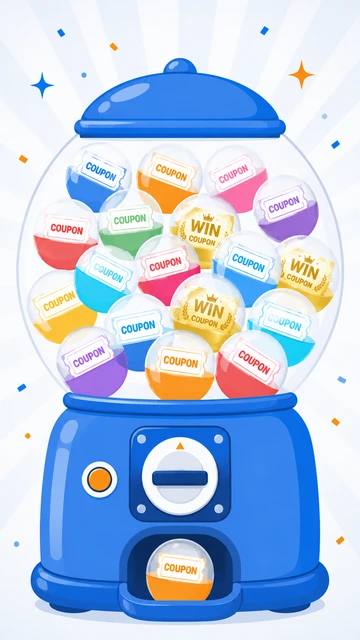
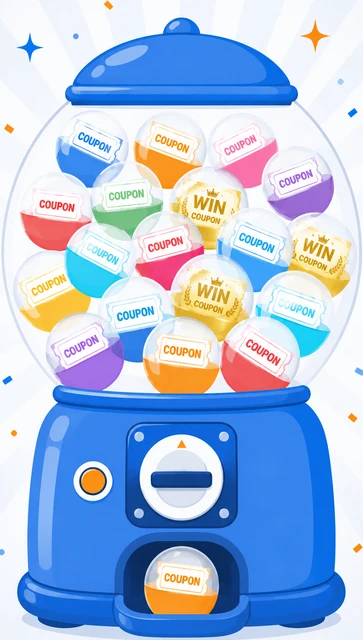
ガチャの見た目をキャンペーンらしく作り直す
白い紙の上に絵とボタンが並んでいるだけで、催しをやっている感じが出ていなかった。

- **モーダルの端まで色を伸ばした「舞台」**を作り、ガチャ本体をその上に置いた。
  舞台の色は回ごとに変わる（ふだんは青、クリスマスは赤と緑、お正月は紅白と金）
- 後光を舞台の背景に敷いた。**絵そのものにも光が入っているので薄くしてある。**
  強くすると二重になって、絵より飾りが目立つ
- **紙吹雪は当たったときだけ降らせる。** ふだんから動いていると、当たった
  手ごたえが出ない。位置と色は決め打ち（毎回変えると、開き直すたびに別の絵に
  なり、サーバーが作ったHTMLとも食い違う）
- 結果を舞台の上に大きく出す。「毎日1回・無料」の札と連続日数も舞台の上へ
- いちばん上の賞（A賞）だけ金色に。どれが目玉か一目で分かるように
- たまっている券を**回数券のかたち**（左右にへこみ）にして、7日に足りない
  ときは、あと何日かを帯で出す
- 引くボタンを大きくした
- ガチャ本体の絵の上下の余白を詰めて、機械そのものを大きく見せた
- 揺れも紙吹雪も、動きを止める設定の端末では止まる
- 使わなくなった .gacha-banner の指定を消した（入口は .gacha-wide に移った）

Claude-Session: https://claude.ai/code/session_01MWcWZbT7Kqcwm12uJEzVyT

diff --git a/app/globals.css b/app/globals.css
@@ -1953,69 +1953,145 @@ body { font-weight:600; }
 
 /* --- 毎日ガチャ ---------------------------------------------------------------
    期間中だけホームに出る入口と、引くところ。**中身は同じで包み紙だけ変える。**
-   クリスマスは赤と緑、お正月は紅白と金。 */
-.gacha-banner { width:calc(100% - 32px); margin:16px; padding:14px 15px; display:flex; align-items:center; gap:12px;
-  border:0; border-radius:16px; color:#fff; text-align:left; cursor:pointer; }
-/* ふだんの回は、アプリの色そのまま。季節の回だけ服を着替える。 */
-.gacha-banner.is-plain { background:linear-gradient(120deg,#0f5fc4,#1478d6 60%,#12a06a); }
-.gacha-banner.is-xmas { background:linear-gradient(120deg,#a51228,#d13048 52%,#0d7a44); }
-.gacha-banner.is-newyear { background:linear-gradient(120deg,#b3122b,#e03a4f 46%,#c99a2e); }
-/* 今日ぶんを引き終わったら落ち着かせる。押せることに変わりはないが、
-   まだ引いていない人と同じ強さで呼び続けない。 */
-.gacha-banner.is-done { filter:saturate(.45) brightness(.92); }
-.gacha-banner-icon { flex:0 0 auto; width:42px; height:42px; display:grid; place-items:center; border-radius:12px;
-  background:rgba(255,255,255,.18); font-size:23px; }
-.gacha-banner-copy { min-width:0; flex:1 1 auto; }
-.gacha-banner-copy b { display:block; font-size:14px; font-weight:900; line-height:1.45; }
-.gacha-banner-copy small { display:block; margin-top:3px; color:#ffe8ec; font-size:11px; font-weight:800; }
-.gacha-banner-go { flex:0 0 auto; font-size:20px; font-weight:900; opacity:.8; }
-
+   ふだんはアプリの青、クリスマスは赤と緑、お正月は紅白と金。 */
 .gacha { text-align:center; }
-/* ガチャ本体。回しているあいだ揺れる。**画像でも絵文字でも同じ動き**に
-   なるように、動かすのは中身ではなく外側の箱にしてある。 */
-/* 絵そのものに背景（光と紙吹雪）が入っているので、角を丸めて1枚の札に見せる。
-   まわりの白と地続きにすると、切り取り忘れのように見える。 */
-.gacha-machine { margin:4px auto 0; display:flex; justify-content:center; overflow:hidden;
-  border-radius:18px; transform-origin:50% 92%; }
-.gacha-machine img { height:210px; width:auto; display:block; }
+
+/* --- 舞台 -------------------------------------------------------------------
+   **モーダルの端まで色を伸ばす。** 白い紙の上に絵を置いただけだと、
+   催しをやっている感じが出ない。上は角を丸めず、下だけ丸めて紙に戻す。 */
+.gacha-stage { margin:0 -20px 4px; padding:14px 20px 18px; position:relative; overflow:hidden;
+  border-radius:0 0 22px 22px; }
+.gacha.is-plain .gacha-stage { background:linear-gradient(165deg,#0b4ea8,#1478d6 58%,#0f8f77); }
+.gacha.is-xmas .gacha-stage { background:linear-gradient(165deg,#8f0f22,#c92a41 55%,#0c7040); }
+.gacha.is-newyear .gacha-stage { background:linear-gradient(165deg,#9c0f24,#d43148 50%,#c2932c); }
+
+/* 後光。ガチャ本体の真うしろから放射させる。薄くしないと、絵より目立つ。 */
+.gacha-rays { position:absolute; left:50%; top:44%; width:150%; aspect-ratio:1; transform:translate(-50%,-50%);
+  background:repeating-conic-gradient(from 0deg, rgba(255,255,255,.08) 0deg 7deg, rgba(255,255,255,0) 7deg 14deg);
+  -webkit-mask-image:radial-gradient(closest-side, #000 20%, transparent 78%);
+  mask-image:radial-gradient(closest-side, #000 20%, transparent 78%); pointer-events:none; }
+
+/* 紙吹雪。**当たったときだけ降らせる。** ふだんから動いていると、
+   当たった手ごたえが出ない。 */
+.gacha-confetti { position:absolute; inset:0; pointer-events:none; }
+.gacha-confetti i { position:absolute; top:-14px; width:7px; height:11px; border-radius:2px; opacity:0; }
+.gacha-stage.is-win .gacha-confetti i { animation:gacha-fall 1.5s ease-in forwards; }
+@keyframes gacha-fall {
+  0% { transform:translateY(0) rotate(0deg); opacity:0; }
+  12% { opacity:1; }
+  100% { transform:translateY(330px) rotate(420deg); opacity:0; }
+}
+
+.gacha-stage-top { margin:0; position:relative; z-index:2; display:flex; flex-wrap:wrap; align-items:center;
+  justify-content:center; gap:7px; }
+.gacha-chip { padding:5px 12px; border-radius:99px; background:rgba(255,255,255,.2); color:#fff;
+  font-size:11px; font-weight:900; letter-spacing:.03em; }
+.gacha-streak { padding:5px 12px; border-radius:99px; background:#ffc53d; color:#5c3c00;
+  font-size:11px; font-weight:900; }
+
+/* ガチャ本体。回しているあいだ揺れる。絵そのものに背景が入っているので、
+   角を丸めて1枚の札に見せる。 */
+.gacha-machine { margin:10px auto 0; position:relative; z-index:2; display:flex; justify-content:center;
+  overflow:hidden; border-radius:18px; transform-origin:50% 92%;
+  box-shadow:0 14px 34px rgba(6,20,44,.28); }
+.gacha-machine img { height:212px; width:auto; display:block; }
 .gacha-machine.is-spinning { animation:gacha-shake .38s ease-in-out infinite; }
 @keyframes gacha-shake {
   0%,100% { transform:rotate(-4deg); }
   50% { transform:rotate(4deg); }
 }
-@media (prefers-reduced-motion:reduce) { .gacha-machine.is-spinning { animation:none; } }
-/* 連続日数。**ログインボーナスの本体はここ。** 続けている手ごたえを出す。 */
-.gacha-streak { margin:12px 0 0; display:inline-block; padding:6px 13px; border-radius:99px;
-  background:#fff3e6; color:#a2500b; font-size:12px; font-weight:900; }
-/* 賞の一覧。**等級・中身・もらえる日数の3列**にそろえる。 */
-.gacha-prizes { margin:15px 0 0; padding:0; list-style:none; display:grid; gap:7px; }
-.gacha-prizes li { padding:10px 12px; display:flex; align-items:center; gap:10px;
-  border:1px solid var(--line); border-radius:11px; background:#fff; color:#7b8598; font-size:11px; font-weight:800; text-align:left; }
-.gacha-prizes li i { min-width:38px; padding:4px 8px; border-radius:7px; background:#eef2f8; color:#8b97aa;
-  font-size:11px; font-style:normal; font-weight:900; text-align:center; }
-.gacha-prizes li b { flex:1 1 auto; min-width:0; overflow:hidden; font-size:13px; font-weight:900; text-overflow:ellipsis; white-space:nowrap; }
-.gacha-prizes li span { flex:0 0 auto; }
-.gacha-prizes li.is-win { border-color:#f0d6c4; background:#fffaf5; color:#a2500b; }
-.gacha-prizes li.is-win i { background:var(--accent); color:#fff; }
-.gacha.is-newyear .gacha-prizes li.is-win { border-color:#e8cf9a; background:#fdf7e8; color:#8a6d2f; }
-.gacha.is-newyear .gacha-prizes li.is-win i { background:#b8912f; }
-.gacha-lead { margin:14px 0 0; color:#64748b; font-size:12px; font-weight:700; line-height:1.75; }
-.gacha .submit-button { margin-top:15px; }
-/* 結果は「A賞　◯◯」。等級を先に、中身をそのうしろに。 */
-.gacha-result { margin:16px 0 0; display:flex; flex-wrap:wrap; align-items:center; justify-content:center; gap:9px;
-  color:#7b8598; font-size:21px; font-weight:900; }
-.gacha-result i { padding:5px 12px; border-radius:9px; background:#eef2f8; color:#8b97aa;
-  font-size:15px; font-style:normal; font-weight:900; letter-spacing:.04em; }
-.gacha-result b { font-weight:900; }
-.gacha-result.is-win { color:#b4380f; font-size:26px; }
-.gacha-result.is-win i { background:var(--accent); color:#fff; }
-.gacha.is-newyear .gacha-result.is-win { color:#a8102a; }
-.gacha.is-newyear .gacha-result.is-win i { background:#b8912f; }
-.gacha-gift { margin:15px 0 0; padding:13px; border-radius:12px; background:#fff3e6; color:#8a4a12;
+@media (prefers-reduced-motion:reduce) {
+  .gacha-machine.is-spinning { animation:none; }
+  .gacha-stage.is-win .gacha-confetti i { animation:none; }
+}
+
+.gacha-stage-note { margin:12px 0 0; position:relative; z-index:2; color:rgba(255,255,255,.86);
   font-size:12px; font-weight:800; }
-.gacha-gift b { display:block; margin-top:4px; font-size:22px; font-weight:900; }
-.gacha-gift small { display:block; margin-top:3px; font-size:11px; font-weight:800; opacity:.8; }
+
+/* 結果は「A賞　◯◯」。舞台の上に白抜きで出す。 */
+.gacha-result { margin:13px 0 0; position:relative; z-index:2; display:flex; flex-wrap:wrap; align-items:center;
+  justify-content:center; gap:9px; color:rgba(255,255,255,.85); font-size:19px; font-weight:900; }
+.gacha-result i { padding:5px 12px; border-radius:9px; background:rgba(255,255,255,.22); color:#fff;
+  font-size:14px; font-style:normal; font-weight:900; letter-spacing:.04em; }
+.gacha-result b { font-weight:900; }
+.gacha-result.is-win { color:#fff; font-size:25px; text-shadow:0 2px 12px rgba(6,20,44,.35); }
+.gacha-result.is-win i { background:#ffc53d; color:#5c3c00; }
+
+/* 賞の一覧。**等級・中身・もらえる日数の3つ**にそろえる。 */
+.gacha-prizes { margin:16px 0 0; padding:0; list-style:none; display:grid; gap:8px; }
+.gacha-prizes li { padding:11px 12px; display:flex; align-items:center; gap:10px;
+  border:1px solid var(--line); border-radius:12px; background:#fff; color:#7b8598;
+  font-size:11px; font-weight:800; text-align:left; }
+.gacha-prizes li i { min-width:40px; padding:5px 8px; border-radius:8px; background:#eef2f8; color:#8b97aa;
+  font-size:11px; font-style:normal; font-weight:900; text-align:center; }
+.gacha-prizes li b { flex:1 1 auto; min-width:0; overflow:hidden; font-size:13px; font-weight:900;
+  text-overflow:ellipsis; white-space:nowrap; }
+.gacha-prizes li span { flex:0 0 auto; }
+.gacha-prizes li.is-win { border-color:#f6d9bd; background:#fff8f1; color:#a2500b; }
+.gacha-prizes li.is-win i { background:var(--accent); color:#fff; }
+/* いちばん上の賞だけ金色にする。**どれが目玉かが一目で分かる。** */
+.gacha-prizes li.is-top { border-color:#e8c877; background:linear-gradient(120deg,#fff8e3,#fffdf6); color:#7a5a12; }
+.gacha-prizes li.is-top i { background:linear-gradient(135deg,#e0a51c,#f5cd53); color:#4d3400;
+  box-shadow:0 2px 8px rgba(190,140,20,.35); }
+.gacha-prizes li.is-top b { font-size:14px; }
+
+.gacha-lead { margin:14px 0 0; color:#64748b; font-size:12px; font-weight:700; line-height:1.75; }
+.gacha-lead b { color:var(--accent-ink); }
+
+/* 引くボタン。押したくなる大きさにする。 */
+.gacha-draw { min-height:56px; margin-top:16px; border-radius:14px; font-size:16px; font-weight:900;
+  box-shadow:0 10px 24px rgba(15,95,196,.28); }
+
+/* たまっている券。**回数券のかたち**にする。数字だけ書くより、持ちものとして
+   見えたほうが、ためる気になる。左右のへこみが切り取り線に見える。 */
+.gacha-gift { margin:16px 0 0; padding:14px 18px; position:relative; border:1px dashed #e8c877;
+  border-radius:14px; background:linear-gradient(120deg,#fffaf0,#fff7e8); color:#7a5a12; }
+.gacha-gift::before, .gacha-gift::after { position:absolute; top:50%; width:14px; height:14px;
+  transform:translateY(-50%); border-radius:50%; background:#fff; content:''; }
+.gacha-gift::before { left:-8px; }
+.gacha-gift::after { right:-8px; }
+.gacha-gift small { display:block; font-size:11px; font-weight:800; opacity:.85; }
+.gacha-gift b { display:block; margin:2px 0; font-size:30px; font-weight:900; letter-spacing:-.02em; }
+.gacha-gift b em { margin-left:3px; font-size:15px; font-style:normal; }
+
+/* あと何日でつかえるか。数字だけより、伸びていくほうが分かりやすい。 */
+.gacha-gauge { height:8px; margin:11px 0 0; overflow:hidden; border-radius:99px; background:#eef2f8; }
+.gacha-gauge span { height:100%; display:block; border-radius:99px;
+  background:linear-gradient(90deg,#f0a11f,#f0731f); }
+
 .gacha-note { margin:13px 0 0; color:#93a0b3; font-size:11px; font-weight:700; line-height:1.7; }
+.gacha-note b { color:#66758c; }
+
+/* 運営だけに出る「もう一度回す」。ふつうのボタンほど強くしない。 */
+.gacha-again { min-height:44px; margin-top:14px; padding:0 20px; border:1px solid #cfdcee; border-radius:11px;
+  background:#fff; color:#0f5fc4; font-size:13px; font-weight:900; cursor:pointer; }
+
+/* --- ガチャの入口（ジャンル別の下）---------------------------------------------
+   **横長のバナー（1200×400／3:1）を置ける枠。** 画像が無い・読めないときは
+   色と文字だけの帯になる。どちらでも成り立つ形にしてあるので、画像の差し替えで
+   画面が壊れることはない。 */
+.gacha-section { padding:6px 0 4px; }
+.gacha-wide { width:calc(100% - 32px); margin:0 16px; padding:0; position:relative; display:block;
+  overflow:hidden; border:0; border-radius:16px; color:#fff; text-align:left; cursor:pointer; }
+.gacha-wide.is-plain { background:linear-gradient(120deg,#0f5fc4,#1478d6 60%,#12a06a); }
+.gacha-wide.is-xmas { background:linear-gradient(120deg,#a51228,#d13048 52%,#0d7a44); }
+.gacha-wide.is-newyear { background:linear-gradient(120deg,#b3122b,#e03a4f 46%,#c99a2e); }
+/* 今日ぶんを引き終わったら落ち着かせる。押せることに変わりはないが、
+   まだ引いていない人と同じ強さで呼び続けない。 */
+.gacha-wide.is-done { filter:saturate(.5) brightness(.93); }
+/* 画像があるときは画像の高さ（3:1）に合わせる。無いときは文字ぶんだけ。 */
+.gacha-wide.has-art { aspect-ratio:3/1; }
+.gacha-wide img { width:100%; height:100%; display:block; object-fit:cover; }
+/* 画像があるときは、日ごとに変わるひとことだけ小さな札にして左下へ。
+   用意された絵の上に見出しを重ねると、絵の文字とぶつかって両方読めなくなる。 */
+.gacha-wide.has-art .gacha-wide-copy { position:absolute; left:11px; bottom:11px; padding:6px 11px;
+  border-radius:99px; background:rgba(11,26,48,.62); backdrop-filter:blur(3px); }
+.gacha-wide.has-art .gacha-wide-copy small { margin:0; font-size:11px; }
+.gacha-wide-copy { display:block; padding:15px 16px; }
+.gacha-wide-copy b { display:block; font-size:16px; font-weight:900; line-height:1.4;
+  text-shadow:0 1px 6px rgba(11,26,48,.35); }
+.gacha-wide-copy small { display:block; margin-top:4px; font-size:12px; font-weight:800; opacity:.92;
+  text-shadow:0 1px 6px rgba(11,26,48,.35); }
 .ad-gift-hint { margin:9px 0 0; padding:11px 12px; border-radius:11px; background:#fff3e6; color:#8a4a12;
   font-size:11px; font-weight:800; line-height:1.7; }
 

diff --git a/app/BoardClient.tsx b/app/BoardClient.tsx
@@ -156,6 +156,26 @@ function trackAd(payload: { views?: string[]; clicks?: string[] }) {
  * 名前を変えると、全員がもう一度その日に自動で開かれる。
  */
 const GACHA_SEEN_KEY = 'tasuki-gacha-auto-open-v1';
+
+/**
+ * 舞台に散らす紙吹雪。**位置も色も決め打ちにする。**
+ * 毎回でたらめに置くと、開き直すたびに別の絵になり、サーバーで作った
+ * HTMLとも食い違う（hydration mismatch）。
+ */
+const GACHA_CONFETTI = [
+  { left: '6%', color: '#f0731f', delay: '0s' },
+  { left: '14%', color: '#1478d6', delay: '.14s' },
+  { left: '23%', color: '#ffc53d', delay: '.28s' },
+  { left: '31%', color: '#12a06a', delay: '.06s' },
+  { left: '42%', color: '#e0384f', delay: '.34s' },
+  { left: '52%', color: '#1478d6', delay: '.2s' },
+  { left: '61%', color: '#ffc53d', delay: '.4s' },
+  { left: '69%', color: '#12a06a', delay: '.1s' },
+  { left: '78%', color: '#f0731f', delay: '.3s' },
+  { left: '86%', color: '#1478d6', delay: '.44s' },
+  { left: '93%', color: '#e0384f', delay: '.18s' },
+  { left: '36%', color: '#ffc53d', delay: '.5s' },
+];
 const historyStorageKey = 'give-hub-request-history-v1';
 const favoriteStorageKey = 'give-hub-request-favorites-v1';
 
@@ -1904,23 +1924,39 @@ export default function BoardClient({ initialRequests, initialStats, initialAds,
 
       {modal === 'gacha' && gacha && gacha.season && <Modal title={gacha.season.name} lead={gacha.season.lead} onClose={() => setModal(null)}>
         <div className={`gacha is-${gacha.season.theme}`}>
-          {/* ガチャ本体。回しているあいだ揺れる。絵が無い・読めないときは
-              絵文字の箱に落とす（画像の差し替えで画面が壊れない）。 */}
-          <div className={`gacha-machine${gachaSpinning ? ' is-spinning' : ''}`}>
-            {gacha.season.machine && gachaMachineOk
-              && <img src={gacha.season.machine} alt="" onError={() => setGachaMachineOk(false)} />}
+          {/* 舞台。**モーダルの端まで色を伸ばす**（margin:0 -20px）。
+              白い紙の上に絵を置いただけだと、催しをやっている感じが出ない。
+              後光と紙吹雪は飾りなので、読み上げからは外す。 */}
+          <div className={`gacha-stage${gacha.drawnToday && !gachaSpinning && gacha.prize?.days ? ' is-win' : ''}`}>
+            <span className="gacha-rays" aria-hidden="true" />
+            <span className="gacha-confetti" aria-hidden="true">
+              {GACHA_CONFETTI.map((piece, index) => <i key={index} style={{ left: piece.left, background: piece.color, animationDelay: piece.delay }} />)}
+            </span>
+            <p className="gacha-stage-top">
+              <span className="gacha-chip">毎日1回・無料</span>
+              {/* 1日目に「1日つづけて」と出すと、続けている感じが出ないどころか
+                  数え方が変に見える。2日目から出す。 */}
+              {gacha.streak > 1 && <span className="gacha-streak">{gacha.streak}日つづけて</span>}
+            </p>
+            <div className={`gacha-machine${gachaSpinning ? ' is-spinning' : ''}`}>
+              {gacha.season.machine && gachaMachineOk
+                && <img src={gacha.season.machine} alt="" onError={() => setGachaMachineOk(false)} />}
+            </div>
+            {/* 結果は舞台の上に出す。引く前は、何が当たるかの見出しを置く。 */}
+            {gacha.drawnToday && !gachaSpinning
+              ? <p className={`gacha-result${gacha.prize?.days ? ' is-win' : ''}`}>
+                {gacha.prize?.tier && <i>{gacha.prize.tier}</i>}
+                <b>{gacha.prize?.label}</b>
+              </p>
+              : <p className="gacha-stage-note">{gachaSpinning ? '回しています…' : '今日のぶんを回せます'}</p>}
           </div>
-
-          {/* 1日目に「1日つづけて」と出すと、続けている感じが出ないどころか
-              数え方が変に見える。2日目から出す。 */}
-          {gacha.streak > 1 && <p className="gacha-streak">{gacha.streak}日つづけて引いています</p>}
 
           {!gacha.drawnToday
             ? <>
               {/* 何が当たるかは先に出す。中身を伏せたまま引かせない。 */}
               <ul className="gacha-prizes">{gacha.season.prizes.map((prize) => {
                 const reward = prize.days ? `無料券 ${prize.days}日分` : '';
-                return <li key={prize.key} className={prize.days ? 'is-win' : ''}>
+                return <li key={prize.key} className={prize.days >= 3 ? 'is-top' : prize.days ? 'is-win' : ''}>
                   {/* はずれの行に「はずれ」と2度書かない。等級の欄は線だけにする。 */}
                   <i>{prize.tier || '—'}</i><b>{prize.label}</b>
                   {/* 中身がそのまま名前になっている回（ふだんの回）では、
@@ -1929,24 +1965,24 @@ export default function BoardClient({ initialRequests, initialStats, initialAds,
                   {reward && !prize.label.includes(`${prize.days}日分`) && <span>{reward}</span>}
                 </li>;
               })}</ul>
-              <button className="submit-button" onClick={spinGacha} disabled={gachaSpinning}>{gachaSpinning ? '回しています…' : gacha.season.action}</button>
+              <button className="submit-button gacha-draw" onClick={spinGacha} disabled={gachaSpinning}>{gachaSpinning ? '回しています…' : gacha.season.action}</button>
               {gacha.coming && <p className="gacha-note">{gacha.coming.from}から <b>{gacha.coming.name}</b> が始まります。</p>}
             </>
-            : gachaSpinning ? <p className="gacha-lead">回しています…</p>
+            : gachaSpinning ? null
             : <>
-              {/* 「A賞　◯◯」の形で出す。等級を先に、中身をそのうしろに。 */}
-              <p className={`gacha-result${gacha.prize?.days ? ' is-win' : ''}`}>
-                {gacha.prize?.tier && <i>{gacha.prize.tier}</i>}
-                <b>{gacha.prize?.label}</b>
-              </p>
               <p className="gacha-lead">{gacha.prize?.note}</p>
-              {gacha.giftDays > 0 && <p className="gacha-gift">たまっている無料券 <b>{gacha.giftDays}日分</b>{gacha.giftExpiresOn && <small>いちばん早い券は{gachaDateLabel(gacha.giftExpiresOn)}まで</small>}</p>}
+              {/* たまっている券は**回数券のかたち**にする。数字だけ書くより、
+                  持ちものとして見えたほうが、ためる気になる。 */}
+              {gacha.giftDays > 0 && <p className="gacha-gift"><small>たまっている無料券</small><b>{gacha.giftDays}<em>日分</em></b>{gacha.giftExpiresOn && <small>いちばん早い券は{gachaDateLabel(gacha.giftExpiresOn)}まで</small>}</p>}
               {/* 7日たまるまでは「あと何日で使えるか」を出す。広告は7日からしか
                   申し込めないので、それを言わないと1日券の意味が伝わらない。 */}
               {gacha.giftDays > 0 && gacha.giftDays < AD_MIN_DAYS
-                ? <p className="gacha-lead">広告は{AD_MIN_DAYS}日から出せます。あと{AD_MIN_DAYS - gacha.giftDays}日分ためると、1週間まるごと無料で出せます。</p>
+                ? <>
+                  <p className="gacha-gauge" aria-hidden="true"><span style={{ width: `${Math.round((gacha.giftDays / AD_MIN_DAYS) * 100)}%` }} /></p>
+                  <p className="gacha-lead">広告は{AD_MIN_DAYS}日から出せます。<b>あと{AD_MIN_DAYS - gacha.giftDays}日分</b>ためると、1週間まるごと無料で出せます。</p>
+                </>
                 : gacha.giftDays >= AD_MIN_DAYS
-                  ? <button className="submit-button" onClick={() => { setModal(null); openAdSettings(); }}>この券で広告を出す</button>
+                  ? <button className="submit-button gacha-draw" onClick={() => { setModal(null); openAdSettings(); }}>この券で広告を出す</button>
                   : <p className="gacha-lead">また明日、引きにきてください。</p>}
               {gacha.monthDays >= gacha.memberCapDaysPerMonth && <p className="gacha-note">今月ぶんの上限（{gacha.memberCapDaysPerMonth}日分）に達しました。来月1日にまた増やせます。それまでは結果だけのお楽しみです。</p>}
               {/* 運営だけ、何度でも回せる。2回目以降は記録も券も増えないことを

diff --git a/docs/ad-gacha-ja.md b/docs/ad-gacha-ja.md
@@ -61,6 +61,16 @@
 
 画面には「もう一度回す」が出て、そのすぐ下に「記録も券も増えていません」と書いてある。
 
+#### 引くところの見た目
+
+**モーダルの端まで色を伸ばした「舞台」**にガチャ本体を置いてある。白い紙の上に絵を置いただけだと、催しをやっている感じが出ないため。舞台の色は回ごとに変わる（ふだんは青、クリスマスは赤と緑、お正月は紅白と金）。
+
+- 後光は舞台の背景（`.gacha-rays`）。**絵そのものにも光が入っているので薄くしてある**。強くすると二重になって、絵より飾りが目立つ
+- 紙吹雪は**当たったときだけ降る**（`.gacha-stage.is-win`）。ふだんから動いていると、当たった手ごたえが出ない。位置と色は決め打ち（毎回変えると、開き直すたびに別の絵になり、サーバーが作ったHTMLとも食い違う）
+- 揺れも紙吹雪も、動きを止める設定の端末では止まる（`prefers-reduced-motion`）
+- いちばん上の賞（A賞）だけ金色にしてある。どれが目玉か一目で分かるように
+- たまっている券は**回数券のかたち**（左右にへこみ）。数字だけ書くより、持ちものとして見えたほうがためる気になる。7日に足りないときは、下に伸びる帯であと何日かを出す
+
 #### ガチャ本体の絵
 
 `app/gacha.ts` の各回の `machine`。いまは3つとも `public/gacha/machine.webp`（縦長）を使っている。回しているあいだ**この絵ごと揺れる**。回ごとに差し替えられるので、クリスマス仕様・お正月仕様の本体を用意したらパスを変える。置いていない・読めないときは、絵は出ない（賞の一覧と引くボタンだけになる）。
